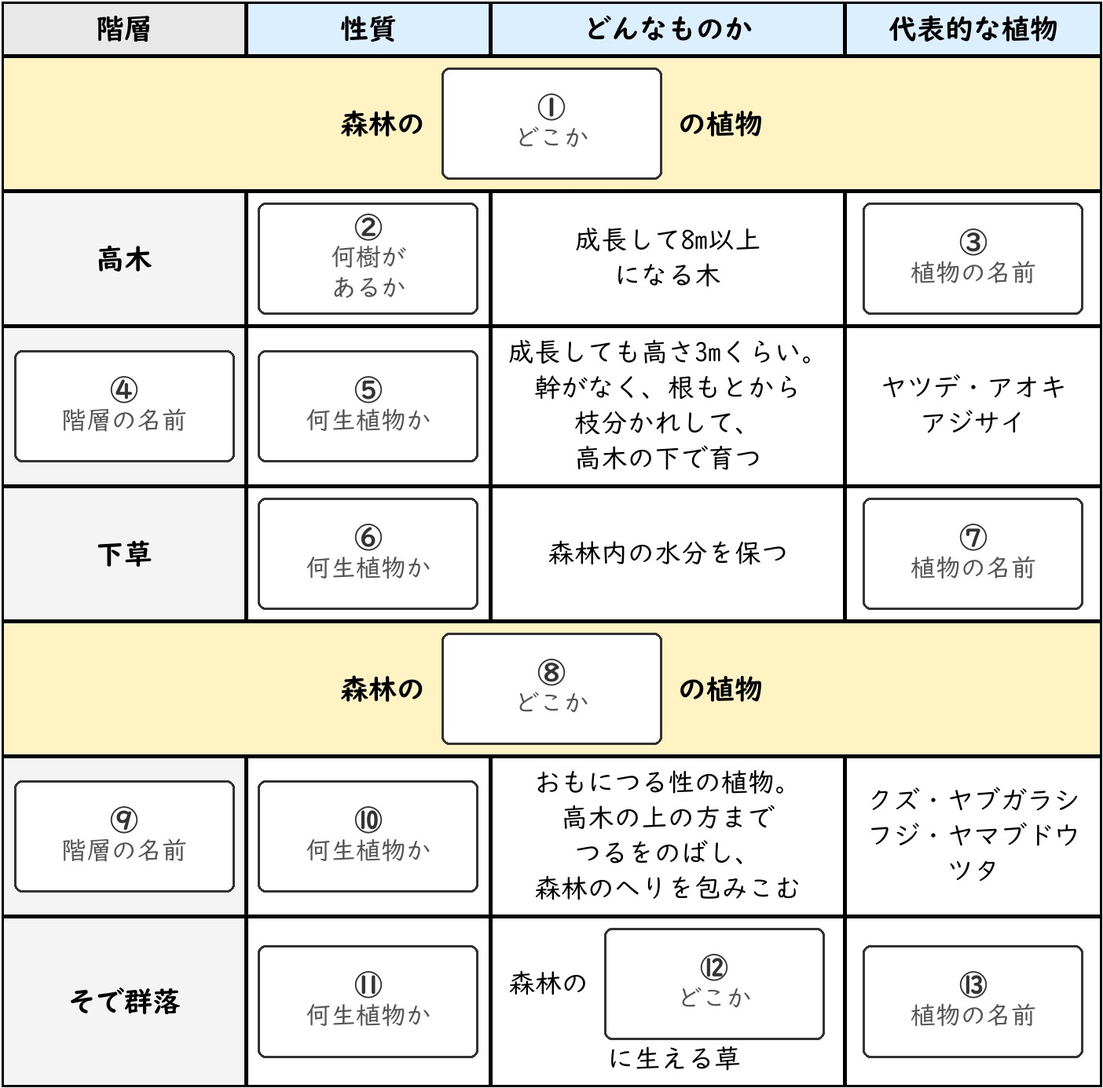
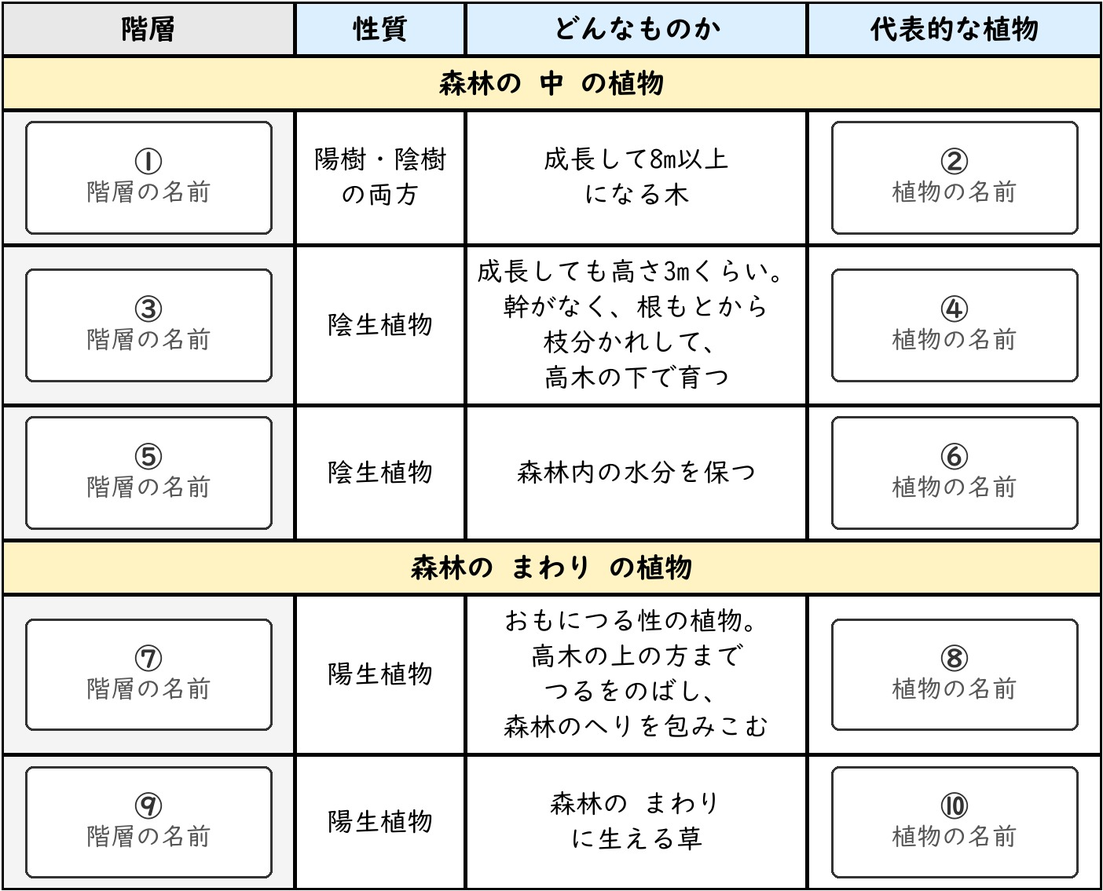
理科 第1回 森林の表をユーザーの形に（1603→1601）＋理科の表の赤丸 29問・88枠
依頼書 = 5年下\quiz_csv_理科\取り込み依頼_森林の表ユーザー形と赤丸_20260927.md
- 第1回_生物のつながり.json 4d7d140a（62問・calc 7 → memo 55）
- 検算: 1603 − 7 ＋ 5 ＝ 1601（実数 1601）。消えた r1m79・r1m80・r1m87〜r1m91／増えた r1m92〜r1m96。中身が変わった問 0。第1回いがいの変更 0。並び同じ
- r1_shinrin.jpg a750740d・実寸 1404x1135 → IMG_SIZES を直した
- TIMELINE_MARKS に 29問・88枠（理科_表の赤丸座標_1行1問_20260927.md）。指示薬5・中和2・水溶液11・消化6・森林5。
  どの問の画像もその表の画像（本番の実寸と座標の元の大きさが一致）。持ち主のいない枠 0
- verify_data 問題なし／smoke 22件問題0／390px で森林・水溶液・指示薬・消化の赤丸を目視

diff --git a/index.html b/index.html
@@ -2698,7 +2698,7 @@ function startConnectTimeout(side){
 // images/内の各画像の実サイズ。<img>にwidth/height属性を設定することで、
 // 読み込み前でも正しい縦横比の分だけ表示スペースを確保でき、
 // 画像読み込み完了時のレイアウトのガタつき（＝それに伴うタップのすれ違い）を防ぐ。
-const IMG_SIZES = {"img_01.jpg":[581,620],"img_02.jpg":[627,579],"img_03.jpg":[714,417],"img_04.jpg":[514,483],"img_05.jpg":[644,532],"img_06.jpg":[463,429],"img_07.jpg":[1156,446],"img_08.jpg":[573,586],"img_09.jpg":[506,198],"img_10.jpg":[497,146],"img_11.jpg":[503,499],"img_12.jpg":[518,578],"img_13.jpg":[746,621],"img_14.jpg":[713,567],"img_15.jpg":[658,628],"img_16.png":[642,589],"img_17.png":[535,597],"img_18.png":[510,295],"img_19.png":[1399,307],"img_20.png":[448,714],"img_21.png":[648,595],"img_22.png":[244,234],"img_23.jpg":[346,355],"img_24.jpg":[209,263],"img_25.jpg":[228,244],"kai1_01.jpg":[374,356],"kai1_02.jpg":[348,339],"kai1_03.jpg":[492,339],"kai1_04.jpg":[352,340],"kai1_05.jpg":[357,340],"kai1_06.jpg":[261,340],"kai1_07.jpg":[461,340],"kai1_08.jpg":[444,340],"kai1_09.jpg":[357,340],"kai1_10.jpg":[601,340],"kai1_11.jpg":[635,340],"kai1_12.jpg":[2019,1084],"kai1_13.jpg":[516,490],"kai1_14.jpg":[560,254],"kai1_15.jpg":[595,324],"kai1_17.jpg":[2028,783],"kai1_18.jpg":[2019,1084],"kai1_20.jpg":[2019,1084],"kai1_21.jpg":[2019,1084],"kai1_22.jpg":[595,569],"kai1_23.jpg":[595,569],"kai1_24.jpg":[2019,1084],"kai1_25.jpg":[595,569],"kai1_26.jpg":[595,569],"kai1_27.jpg":[700,508],"kai1_28.jpg":[951,720],"kai1_29.jpg":[2240,1180],"kai1_30.jpg":[1181,1244],"kai2_01.jpg":[697,350],"kai2_02.jpg":[769,524],"kai2_03.jpg":[529,297],"kai2_04.jpg":[529,313],"kai2_05.jpg":[1216,2126],"kai3_01.jpg":[530,460],"kai3_02.jpg":[680,460],"kai3_03.jpg":[700,460],"kai3_04.jpg":[675,330],"kai3_05.jpg":[2408,1775],"kai3_06.jpg":[1988,1222],"kai3_07.jpg":[1189,2001],"kai4_01.jpg":[1189,1839],"kai5_01.jpg":[1189,1027],"kai5_02.jpg":[743,534],"kaki_r1_01.jpg":[761,180],"kaki_r1_02.jpg":[761,206],"kaki_r1_03.jpg":[796,180],"kaki_r1_04.jpg":[761,179],"kaki_r1_05.jpg":[796,206],"kaki_r1_06.jpg":[830,214],"kaki_r1_07.jpg":[890,624],"kaki_r1_08.jpg":[430,380],"kaki_r1_map01.jpg":[1170,1210],"kaki_r1_map02.jpg":[1170,1210],"kaki_r1_map03.jpg":[1170,1210],"kaki_r1_map04.jpg":[1170,1210],"kaki_r1_map05.jpg":[1170,1210],"kaki_r1_map06.jpg":[1170,1210],"kaki_r1_map07.jpg":[1170,1210],"kaki_r1_map08.jpg":[1170,1210],"kaki_r1_map09.jpg":[1170,1210],"kaki_r1_map10.jpg":[1170,1210],"kaki_r1_map11.jpg":[1170,1210],"kaki_r1_map12.jpg":[1170,1210],"kaki_r1_map13.jpg":[1170,1210],"kaki_r1_map14.jpg":[1170,1210],"kaki_r1_map15.jpg":[1170,1210],"kaki_r2_graph01.jpg":[1215,1340],"kaki_r2_graph02.jpg":[1295,850],"kaki_r2_graph03.jpg":[1265,680],"kaki_r2_graph04.jpg":[1225,320],"kaki_r2_graph06.jpg":[1045,560],"kaki_r2_graph07.jpg":[700,870],"kaki_r2_map01.jpg":[1140,1090],"kaki_r2_map05.jpg":[1035,900],"kaki_r2_map07.jpg":[2315,1650],"kaki_r2_map08.jpg":[2315,1650],"kaki_r2_map09.jpg":[2315,1650],"kaki_r2_map10.jpg":[2315,1650],"kaki_r2_map11.jpg":[2315,1650],"kaki_r2_map12.jpg":[2315,1650],"kaki_r2_map13.jpg":[2315,1650],"kaki_r2_map14.jpg":[2315,1650],"kaki_r2_map15.jpg":[2315,1650],"kaki_r2_map16.jpg":[2315,1650],"kaki_r2_map17.jpg":[2315,1650],"kaki_r2_map18.jpg":[2315,1650],"kaki_r2_map19.jpg":[2315,1650],"kaki_r3_graph01.jpg":[1015,580],"kaki_r3_house01.jpg":[505,355],"kaki_r3_map01.jpg":[2415,3414],"kaki_r3_map02.jpg":[2415,3414],"kaki_r3_map03.jpg":[2415,3414],"kaki_r3_map04.jpg":[2415,3414],"kaki_r3_map05.jpg":[2415,3414],"kaki_r3_map06.jpg":[2415,3414],"kaki_r3_map07.jpg":[2415,3414],"kaki_r3_map08.jpg":[2415,3414],"kaki_r3_map09.jpg":[2415,3414],"kaki_r3_map10.jpg":[2415,3414],"kaki_r3_map11.jpg":[2415,3414],"kaki_r3_map12.jpg":[2415,3414],"kaki_r3_map13.jpg":[2415,3414],"kaki_r3_map14.jpg":[2415,3414],"kaki_r3_map15.jpg":[2415,3414],"kaki_r3_map16.jpg":[2415,3414],"kaki_r3_map17.jpg":[2415,3414],"kaki_r3_map18.jpg":[2415,3414],"kaki_r3_map19.jpg":[2415,3414],"kaki_r3_map20.jpg":[2415,3414],"kaki_r3_map21.jpg":[2415,3414],"kaki_r3_map22.jpg":[2415,3414],"kaki_r3_map23.jpg":[2415,3417],"kaki_r3_map24.jpg":[2415,3417],"kaki_r3_map25.jpg":[2415,3417],"kaki_r3_map26.jpg":[2415,3417],"kaki_r3_map27.jpg":[2415,3417],"kaki_r3_map28.jpg":[2415,3417],"kaki_r3_map29.jpg":[2415,3417],"kaki_r3_map30.jpg":[2415,3417],"kaki_r3_map31.jpg":[2415,3417],"kaki_r3_map32.jpg":[2415,3417],"kaki_r3_map33.jpg":[2415,3417],"kaki_r3_map34.jpg":[2415,3417],"kaki_r3_map35.jpg":[2415,3417],"kaki_r3_map36.jpg":[2415,3417],"kaki_r3_map37.jpg":[1265,910],"kaki_r3_shapes.jpg":[2315,480],"kaki_r4_graph01.jpg":[910,300],"kaki_r4_graph02.jpg":[760,200],"kaki_r4_map01.jpg":[1610,980],"kaki_r4_map02.jpg":[1610,1380],"kaki_r4_map03.jpg":[540,570],"kaki_r4_map04.jpg":[1480,1310],"kaki_r4_map05.jpg":[1480,1310],"kaki_r4_map06.jpg":[1480,1310],"kaki_r4_map07.jpg":[1480,1310],"kaki_r4_map08.jpg":[1480,1310],"kaki_r4_map09.jpg":[1480,1310],"kaki_r4_map10.jpg":[1480,1310],"kaki_r4_map11.jpg":[1480,1310],"kaki_r4_map12.jpg":[1480,1310],"kaki_r4_map13.jpg":[1480,1310],"kaki_r4_map14.jpg":[1480,1310],"kaki_r4_map15.jpg":[1480,1310],"kaki_r4_map16.jpg":[1480,1310],"kaki_r4_map17.jpg":[1480,1310],"kaki_r4_map18.jpg":[1480,1310],"kaki_r4_map19.jpg":[1480,1310],"kaki_r4_map20.jpg":[1480,1310],"kaki_r4_map21.jpg":[1480,1310],"kaki_r4_map22.jpg":[1480,1310],"kaki_r4_map23.jpg":[1480,1310],"kaki_r4_map24.jpg":[1480,1310],"kaki_r4_map25.jpg":[1630,1440],"kaki_r4_map26.jpg":[1630,1440],"kaki_r4_map27.jpg":[1630,1440],"kaki_r4_map28.jpg":[1630,1440],"kaki_r4_map29.jpg":[1630,1440],"kaki_r4_map30.jpg":[1630,1440],"kaki_r4_map31.jpg":[1630,1440],"kaki_r4_map32.jpg":[1630,1440],"kaki_r4_map33.jpg":[1630,1440],"kaki_r4_map34.jpg":[1630,1440],"kaki_r4_map35.jpg":[1630,1440],"kaki_r4_map36.jpg":[1630,1440],"kaki_r4_map37.jpg":[1630,1440],"kaki_r4_map38.jpg":[1630,1440],"kaki_r4_map39.jpg":[1630,1440],"kaki_r4_map40.jpg":[1630,1440],"kaki_r4_map41.jpg":[1630,1440],"kaki_r4_shapes01.jpg":[1470,520],"kaki_r4_shapes02.jpg":[1970,870],"kaki_r5_graph02.jpg":[610,665],"kaki_r5_graph05.jpg":[2105,343],"kaki_r5_map01.jpg":[1540,1550],"kaki_r5_map02.jpg":[1540,1550],"kaki_r5_map03.jpg":[1540,1550],"kaki_r5_map04.jpg":[1540,1550],"kaki_r5_map05.jpg":[1540,1550],"kaki_r5_map06.jpg":[1540,1550],"kaki_r5_map07.jpg":[1540,1550],"kaki_r5_map08.jpg":[1540,1550],"kaki_r5_map09.jpg":[1540,1550],"kaki_r5_map10.jpg":[1540,1550],"kaki_r5_map11.jpg":[1540,1550],"kaki_r5_map12.jpg":[1540,1550],"kaki_r5_map13.jpg":[1540,1550],"kaki_r5_map14.jpg":[1540,1550],"kaki_r5_map15.jpg":[1540,1550],"kaki_r5_map16.jpg":[1540,1550],"kaki_r5_map17.jpg":[1540,1550],"kaki_r5_map18.jpg":[1540,1550],"kaki_r5_map19.jpg":[1700,1740],"kaki_r5_map20.jpg":[1700,1740],"kaki_r5_map21.jpg":[1700,1740],"kaki_r5_map22.jpg":[1700,1740],"kaki_r5_map23.jpg":[1700,1740],"kaki_r5_map24.jpg":[1700,1740],"kaki_r5_map25.jpg":[1700,1740],"kaki_r5_map26.jpg":[1700,1740],"kaki_r5_map27.jpg":[1700,1740],"kaki_r5_map28.jpg":[1700,1740],"kaki_r5_map29.jpg":[1700,1740],"kaki_r5_map30.jpg":[1700,1740],"kaki_r5_map31.jpg":[1700,1740],"kaki_r5_map32.jpg":[540,600],"kaki_r5_shapes02.jpg":[800,635],"kaki_r5_shapes03.jpg":[460,480],"kaki_r5_table01.jpg":[1370,390],"kaki_r5_table02.jpg":[1170,580],"kaki_r6_graph01.jpg":[850,1005],"kaki_r6_map01.jpg":[1500,1320],"kaki_r6_map02.jpg":[1500,1320],"kaki_r6_map03.jpg":[1500,1320],"kaki_r6_map04.jpg":[1500,1320],"kaki_r6_map05.jpg":[1500,1320],"kaki_r6_map06.jpg":[1500,1320],"kaki_r6_map07.jpg":[1500,1320],"kaki_r6_map08.jpg":[1500,1320],"kaki_r6_map09.jpg":[1500,1320],"kaki_r6_map10.jpg":[1500,1320],"kaki_r6_map11.jpg":[1500,1320],"kaki_r6_map12.jpg":[1500,1320],"kaki_r6_map13.jpg":[1500,1320],"kaki_r6_map14.jpg":[1500,1320],"kaki_r6_map15.jpg":[1500,1320],"kaki_r6_map16.jpg":[1500,1320],"kaki_r6_map17.jpg":[1500,1320],"kaki_r6_map18.jpg":[1500,1320],"kaki_r6_map19.jpg":[1500,1320],"kaki_r6_map20.jpg":[1500,1320],"kaki_r6_map21.jpg":[1500,1320],"kaki_r6_map22.jpg":[1500,1320],"kaki_r6_map23.jpg":[1500,1320],"kaki_r6_map24.jpg":[1500,1320],"kaki_r6_map25.jpg":[1500,1320],"kaki_r6_map26.jpg":[1500,1320],"kaki_r6_map27.jpg":[1500,1320],"kaki_r6_map28.jpg":[1420,1480],"kaki_r6_map29.jpg":[1420,1480],"kaki_r6_map30.jpg":[1420,1480],"kaki_r6_map31.jpg":[1420,1480],"kaki_r6_map32.jpg":[1420,1480],"kaki_r6_map33.jpg":[1420,1480],"kaki_r6_map34.jpg":[1420,1480],"kaki_r6_map35.jpg":[1420,1480],"kaki_r6_map36.jpg":[1420,1480],"kaki_r6_map37.jpg":[1420,1480],"kaki_r6_map38.jpg":[1420,1480],"kaki_r6_map39.jpg":[1420,1480],"kaki_r6_map40.jpg":[1420,1480],"kaki_r6_map41.jpg":[1420,1480],"kaki_r6_map42.jpg":[1420,1480],"kaki_r6_map43.jpg":[1420,1480],"kaki_r6_map44.jpg":[1420,1480],"kaki_r6_map45.jpg":[1420,1480],"kaki_r6_map46.jpg":[1420,1480],"kaki_r6_map47.jpg":[1420,1480],"kaki_r6_map48.jpg":[750,845],"kaki_r6_map49.jpg":[600,700],"kaki_r6_table01.jpg":[2010,445],"kaki_r7_graph02.jpg":[720,340],"kaki_r7_map01.jpg":[1840,1620],"kaki_r7_map02.jpg":[1840,1620],"kaki_r7_map03.jpg":[1840,1620],"kaki_r7_map04.jpg":[1840,1620],"kaki_r7_map05.jpg":[1840,1620],"kaki_r7_map06.jpg":[1840,1620],"kaki_r7_map07.jpg":[1840,1620],"kaki_r7_map08.jpg":[1840,1620],"kaki_r7_map09.jpg":[1840,1620],"kaki_r7_map10.jpg":[1840,1620],"kaki_r7_map11.jpg":[1840,1620],"kaki_r7_map12.jpg":[1840,1620],"kaki_r7_map13.jpg":[1840,1620],"kaki_r7_map14.jpg":[1840,1620],"kaki_r7_map15.jpg":[1840,1620],"kaki_r7_map16.jpg":[1840,1620],"kaki_r7_map17.jpg":[1840,1620],"kaki_r7_map18.jpg":[1500,1620],"kaki_r7_map19.jpg":[1500,1620],"kaki_r7_map20.jpg":[1500,1620],"kaki_r7_map21.jpg":[1500,1620],"kaki_r7_map22.jpg":[1500,1620],"kaki_r7_map23.jpg":[1500,1620],"kaki_r7_map24.jpg":[1500,1620],"kaki_r7_map25.jpg":[1500,1620],"kaki_r7_map26.jpg":[1500,1620],"kaki_r7_map27.jpg":[1500,1620],"kaki_r7_map28.jpg":[1500,1620],"kaki_r7_map29.jpg":[1500,1620],"kaki_r7_map30.jpg":[1500,1620],"kaki_r7_map31.jpg":[1500,1620],"kaki_r7_map32.jpg":[1500,1620],"kaki_r7_map33.jpg":[1500,1620],"kaki_r7_map34.jpg":[1500,1620],"kaki_r7_map35.jpg":[1500,1620],"kaki_r7_map36.jpg":[680,550],"kaki_r7_table01.jpg":[1100,420],"kaki_r7_table02.jpg":[1730,890],"kaki_r8_map01.jpg":[1220,1720],"kaki_r8_map02.jpg":[1220,1720],"kaki_r8_map03.jpg":[1220,1720],"kaki_r8_map04.jpg":[1220,1720],"kaki_r8_map05.jpg":[1220,1720],"kaki_r8_map06.jpg":[1220,1720],"kaki_r8_map07.jpg":[1220,1720],"kaki_r8_map08.jpg":[1220,1720],"kaki_r8_map09.jpg":[1220,1720],"kaki_r8_map10.jpg":[1220,1720],"kaki_r8_map11.jpg":[1220,1720],"kaki_r8_map12.jpg":[1220,1720],"kaki_r8_map13.jpg":[1220,1720],"kaki_r8_map14.jpg":[1220,1720],"kaki_r8_map15.jpg":[1220,1720],"kaki_r8_map16.jpg":[1220,1720],"kaki_r8_map17.jpg":[1220,1720],"kaki_r8_map18.jpg":[1220,1720],"kaki_r8_map19.jpg":[1220,1720],"kaki_r8_map20.jpg":[1220,1720],"kaki_r8_map21.jpg":[1220,1720],"kaki_r8_map22.jpg":[1220,1720],"kaki_r8_map23.jpg":[1220,1720],"kaki_r8_map24.jpg":[1220,1720],"kaki_r8_map25.jpg":[1220,1720],"kaki_r8_map26.jpg":[1220,1720],"kaki_r8_map27.jpg":[1220,1720],"kaki_r8_map28.jpg":[1220,1720],"kaki_r8_map29.jpg":[1220,1720],"kaki_r8_map30.jpg":[1220,1720],"kaki_r8_map31.jpg":[1220,1720],"kaki_r8_map32.jpg":[1220,1720],"kaki_r8_map33.jpg":[1220,1720],"kaki_r8_map34.jpg":[1220,1720],"kaki_r8_map35.jpg":[1870,1560],"kaki_r8_map36.jpg":[1870,1560],"kaki_r8_map37.jpg":[1870,1560],"kaki_r8_map38.jpg":[1870,1560],"kaki_r8_map39.jpg":[1870,1560],"kaki_r8_map40.jpg":[1870,1560],"kaki_r8_map41.jpg":[1870,1560],"kaki_r8_map42.jpg":[1870,1560],"kaki_r8_map43.jpg":[1870,1560],"kaki_r8_map44.jpg":[1870,1560],"kaki_r8_map45.jpg":[1870,1560],"kaki_r8_map46.jpg":[1870,1560],"kaki_r8_map47.jpg":[1870,1560],"kaki_r8_map48.jpg":[1870,1560],"kaki_r8_map49.jpg":[1870,1560],"kaki_r8_map50.jpg":[1870,1560],"kaki_r8_map51.jpg":[1870,1560],"kaki_r8_map52.jpg":[1870,1560],"kaki_r8_map53.jpg":[1870,1560],"kaki_r8_map54.jpg":[1870,1560],"kaki_r8_map55.jpg":[1870,1560],"kaki_r8_map56.jpg":[1870,1560],"kaki_r8_map57.jpg":[1870,1560],"kaki_r8_map58.jpg":[640,630],"r1_01.jpg":[2188,900],"r1_02.jpg":[1130,1070],"r1_03.jpg":[1660,400],"r1_04.jpg":[476,377],"r1_05.jpg":[1299,625],"r1_06.jpg":[950,360],"r1_shinrin.jpg":[1404,1386],"r2_01.jpg":[1400,673],"r2_02.jpg":[1400,365],"r2_03.jpg":[1400,346],"r2_04.jpg":[1400,997],"r2_05.jpg":[1400,692],"r2_06.jpg":[1392,600],"r2_07.jpg":[1392,623],"r2_08.jpg":[1392,701],"r2_09.jpg":[1419,823],"r2_10.jpg":[1419,823],"r2_11.jpg":[1419,823],"r2_12.jpg":[1419,956],"r2_13.jpg":[1419,956],"r2_14.jpg":[1419,956],"r2_15.jpg":[1400,946],"r2_16.jpg":[1400,946],"r2_17.jpg":[1400,946],"r2_18.jpg":[1400,883],"r2_19.jpg":[1400,883],"r2_20.jpg":[1427,1895],"r2_21.jpg":[1427,1895],"r2_22.jpg":[1427,1895],"r2_23.jpg":[1427,1895],"r2_24.jpg":[1427,1895],"r2_25.jpg":[1427,1895],"r2_26.jpg":[1410,1983],"r2_27.jpg":[1410,1983],"r2_28.jpg":[1410,1983],"r2_29.jpg":[1410,1983],"r2_30.jpg":[1419,946],"r2_31.jpg":[1419,946],"r2_32.jpg":[1419,946],"r2_33.jpg":[1419,946],"r2_34.jpg":[1419,538],"r2_35.jpg":[1419,538],"r2_36.jpg":[1419,538],"r2_37.jpg":[1419,538],"r2_38.jpg":[1419,546],"r2_39.jpg":[1401,913],"r2_40.jpg":[1401,1937],"r3_chuuwa.jpg":[1404,556],"r3_seishitsu.jpg":[1404,1708],"r3_shijiyaku.jpg":[1404,790],"r3_yomi21.jpg":[645,466],"r3_yomi24.jpg":[1404,382],"r3_yomi25.jpg":[1170,1095],"r3_yomi27.jpg":[1404,310],"r3_yomi36.jpg":[780,600],"r4_01.jpg":[880,1168],"r4_02.jpg":[1175,434],"r4_03.jpg":[759,1084],"r4_04.jpg":[1404,2632]};
+const IMG_SIZES = {"img_01.jpg":[581,620],"img_02.jpg":[627,579],"img_03.jpg":[714,417],"img_04.jpg":[514,483],"img_05.jpg":[644,532],"img_06.jpg":[463,429],"img_07.jpg":[1156,446],"img_08.jpg":[573,586],"img_09.jpg":[506,198],"img_10.jpg":[497,146],"img_11.jpg":[503,499],"img_12.jpg":[518,578],"img_13.jpg":[746,621],"img_14.jpg":[713,567],"img_15.jpg":[658,628],"img_16.png":[642,589],"img_17.png":[535,597],"img_18.png":[510,295],"img_19.png":[1399,307],"img_20.png":[448,714],"img_21.png":[648,595],"img_22.png":[244,234],"img_23.jpg":[346,355],"img_24.jpg":[209,263],"img_25.jpg":[228,244],"kai1_01.jpg":[374,356],"kai1_02.jpg":[348,339],"kai1_03.jpg":[492,339],"kai1_04.jpg":[352,340],"kai1_05.jpg":[357,340],"kai1_06.jpg":[261,340],"kai1_07.jpg":[461,340],"kai1_08.jpg":[444,340],"kai1_09.jpg":[357,340],"kai1_10.jpg":[601,340],"kai1_11.jpg":[635,340],"kai1_12.jpg":[2019,1084],"kai1_13.jpg":[516,490],"kai1_14.jpg":[560,254],"kai1_15.jpg":[595,324],"kai1_17.jpg":[2028,783],"kai1_18.jpg":[2019,1084],"kai1_20.jpg":[2019,1084],"kai1_21.jpg":[2019,1084],"kai1_22.jpg":[595,569],"kai1_23.jpg":[595,569],"kai1_24.jpg":[2019,1084],"kai1_25.jpg":[595,569],"kai1_26.jpg":[595,569],"kai1_27.jpg":[700,508],"kai1_28.jpg":[951,720],"kai1_29.jpg":[2240,1180],"kai1_30.jpg":[1181,1244],"kai2_01.jpg":[697,350],"kai2_02.jpg":[769,524],"kai2_03.jpg":[529,297],"kai2_04.jpg":[529,313],"kai2_05.jpg":[1216,2126],"kai3_01.jpg":[530,460],"kai3_02.jpg":[680,460],"kai3_03.jpg":[700,460],"kai3_04.jpg":[675,330],"kai3_05.jpg":[2408,1775],"kai3_06.jpg":[1988,1222],"kai3_07.jpg":[1189,2001],"kai4_01.jpg":[1189,1839],"kai5_01.jpg":[1189,1027],"kai5_02.jpg":[743,534],"kaki_r1_01.jpg":[761,180],"kaki_r1_02.jpg":[761,206],"kaki_r1_03.jpg":[796,180],"kaki_r1_04.jpg":[761,179],"kaki_r1_05.jpg":[796,206],"kaki_r1_06.jpg":[830,214],"kaki_r1_07.jpg":[890,624],"kaki_r1_08.jpg":[430,380],"kaki_r1_map01.jpg":[1170,1210],"kaki_r1_map02.jpg":[1170,1210],"kaki_r1_map03.jpg":[1170,1210],"kaki_r1_map04.jpg":[1170,1210],"kaki_r1_map05.jpg":[1170,1210],"kaki_r1_map06.jpg":[1170,1210],"kaki_r1_map07.jpg":[1170,1210],"kaki_r1_map08.jpg":[1170,1210],"kaki_r1_map09.jpg":[1170,1210],"kaki_r1_map10.jpg":[1170,1210],"kaki_r1_map11.jpg":[1170,1210],"kaki_r1_map12.jpg":[1170,1210],"kaki_r1_map13.jpg":[1170,1210],"kaki_r1_map14.jpg":[1170,1210],"kaki_r1_map15.jpg":[1170,1210],"kaki_r2_graph01.jpg":[1215,1340],"kaki_r2_graph02.jpg":[1295,850],"kaki_r2_graph03.jpg":[1265,680],"kaki_r2_graph04.jpg":[1225,320],"kaki_r2_graph06.jpg":[1045,560],"kaki_r2_graph07.jpg":[700,870],"kaki_r2_map01.jpg":[1140,1090],"kaki_r2_map05.jpg":[1035,900],"kaki_r2_map07.jpg":[2315,1650],"kaki_r2_map08.jpg":[2315,1650],"kaki_r2_map09.jpg":[2315,1650],"kaki_r2_map10.jpg":[2315,1650],"kaki_r2_map11.jpg":[2315,1650],"kaki_r2_map12.jpg":[2315,1650],"kaki_r2_map13.jpg":[2315,1650],"kaki_r2_map14.jpg":[2315,1650],"kaki_r2_map15.jpg":[2315,1650],"kaki_r2_map16.jpg":[2315,1650],"kaki_r2_map17.jpg":[2315,1650],"kaki_r2_map18.jpg":[2315,1650],"kaki_r2_map19.jpg":[2315,1650],"kaki_r3_graph01.jpg":[1015,580],"kaki_r3_house01.jpg":[505,355],"kaki_r3_map01.jpg":[2415,3414],"kaki_r3_map02.jpg":[2415,3414],"kaki_r3_map03.jpg":[2415,3414],"kaki_r3_map04.jpg":[2415,3414],"kaki_r3_map05.jpg":[2415,3414],"kaki_r3_map06.jpg":[2415,3414],"kaki_r3_map07.jpg":[2415,3414],"kaki_r3_map08.jpg":[2415,3414],"kaki_r3_map09.jpg":[2415,3414],"kaki_r3_map10.jpg":[2415,3414],"kaki_r3_map11.jpg":[2415,3414],"kaki_r3_map12.jpg":[2415,3414],"kaki_r3_map13.jpg":[2415,3414],"kaki_r3_map14.jpg":[2415,3414],"kaki_r3_map15.jpg":[2415,3414],"kaki_r3_map16.jpg":[2415,3414],"kaki_r3_map17.jpg":[2415,3414],"kaki_r3_map18.jpg":[2415,3414],"kaki_r3_map19.jpg":[2415,3414],"kaki_r3_map20.jpg":[2415,3414],"kaki_r3_map21.jpg":[2415,3414],"kaki_r3_map22.jpg":[2415,3414],"kaki_r3_map23.jpg":[2415,3417],"kaki_r3_map24.jpg":[2415,3417],"kaki_r3_map25.jpg":[2415,3417],"kaki_r3_map26.jpg":[2415,3417],"kaki_r3_map27.jpg":[2415,3417],"kaki_r3_map28.jpg":[2415,3417],"kaki_r3_map29.jpg":[2415,3417],"kaki_r3_map30.jpg":[2415,3417],"kaki_r3_map31.jpg":[2415,3417],"kaki_r3_map32.jpg":[2415,3417],"kaki_r3_map33.jpg":[2415,3417],"kaki_r3_map34.jpg":[2415,3417],"kaki_r3_map35.jpg":[2415,3417],"kaki_r3_map36.jpg":[2415,3417],"kaki_r3_map37.jpg":[1265,910],"kaki_r3_shapes.jpg":[2315,480],"kaki_r4_graph01.jpg":[910,300],"kaki_r4_graph02.jpg":[760,200],"kaki_r4_map01.jpg":[1610,980],"kaki_r4_map02.jpg":[1610,1380],"kaki_r4_map03.jpg":[540,570],"kaki_r4_map04.jpg":[1480,1310],"kaki_r4_map05.jpg":[1480,1310],"kaki_r4_map06.jpg":[1480,1310],"kaki_r4_map07.jpg":[1480,1310],"kaki_r4_map08.jpg":[1480,1310],"kaki_r4_map09.jpg":[1480,1310],"kaki_r4_map10.jpg":[1480,1310],"kaki_r4_map11.jpg":[1480,1310],"kaki_r4_map12.jpg":[1480,1310],"kaki_r4_map13.jpg":[1480,1310],"kaki_r4_map14.jpg":[1480,1310],"kaki_r4_map15.jpg":[1480,1310],"kaki_r4_map16.jpg":[1480,1310],"kaki_r4_map17.jpg":[1480,1310],"kaki_r4_map18.jpg":[1480,1310],"kaki_r4_map19.jpg":[1480,1310],"kaki_r4_map20.jpg":[1480,1310],"kaki_r4_map21.jpg":[1480,1310],"kaki_r4_map22.jpg":[1480,1310],"kaki_r4_map23.jpg":[1480,1310],"kaki_r4_map24.jpg":[1480,1310],"kaki_r4_map25.jpg":[1630,1440],"kaki_r4_map26.jpg":[1630,1440],"kaki_r4_map27.jpg":[1630,1440],"kaki_r4_map28.jpg":[1630,1440],"kaki_r4_map29.jpg":[1630,1440],"kaki_r4_map30.jpg":[1630,1440],"kaki_r4_map31.jpg":[1630,1440],"kaki_r4_map32.jpg":[1630,1440],"kaki_r4_map33.jpg":[1630,1440],"kaki_r4_map34.jpg":[1630,1440],"kaki_r4_map35.jpg":[1630,1440],"kaki_r4_map36.jpg":[1630,1440],"kaki_r4_map37.jpg":[1630,1440],"kaki_r4_map38.jpg":[1630,1440],"kaki_r4_map39.jpg":[1630,1440],"kaki_r4_map40.jpg":[1630,1440],"kaki_r4_map41.jpg":[1630,1440],"kaki_r4_shapes01.jpg":[1470,520],"kaki_r4_shapes02.jpg":[1970,870],"kaki_r5_graph02.jpg":[610,665],"kaki_r5_graph05.jpg":[2105,343],"kaki_r5_map01.jpg":[1540,1550],"kaki_r5_map02.jpg":[1540,1550],"kaki_r5_map03.jpg":[1540,1550],"kaki_r5_map04.jpg":[1540,1550],"kaki_r5_map05.jpg":[1540,1550],"kaki_r5_map06.jpg":[1540,1550],"kaki_r5_map07.jpg":[1540,1550],"kaki_r5_map08.jpg":[1540,1550],"kaki_r5_map09.jpg":[1540,1550],"kaki_r5_map10.jpg":[1540,1550],"kaki_r5_map11.jpg":[1540,1550],"kaki_r5_map12.jpg":[1540,1550],"kaki_r5_map13.jpg":[1540,1550],"kaki_r5_map14.jpg":[1540,1550],"kaki_r5_map15.jpg":[1540,1550],"kaki_r5_map16.jpg":[1540,1550],"kaki_r5_map17.jpg":[1540,1550],"kaki_r5_map18.jpg":[1540,1550],"kaki_r5_map19.jpg":[1700,1740],"kaki_r5_map20.jpg":[1700,1740],"kaki_r5_map21.jpg":[1700,1740],"kaki_r5_map22.jpg":[1700,1740],"kaki_r5_map23.jpg":[1700,1740],"kaki_r5_map24.jpg":[1700,1740],"kaki_r5_map25.jpg":[1700,1740],"kaki_r5_map26.jpg":[1700,1740],"kaki_r5_map27.jpg":[1700,1740],"kaki_r5_map28.jpg":[1700,1740],"kaki_r5_map29.jpg":[1700,1740],"kaki_r5_map30.jpg":[1700,1740],"kaki_r5_map31.jpg":[1700,1740],"kaki_r5_map32.jpg":[540,600],"kaki_r5_shapes02.jpg":[800,635],"kaki_r5_shapes03.jpg":[460,480],"kaki_r5_table01.jpg":[1370,390],"kaki_r5_table02.jpg":[1170,580],"kaki_r6_graph01.jpg":[850,1005],"kaki_r6_map01.jpg":[1500,1320],"kaki_r6_map02.jpg":[1500,1320],"kaki_r6_map03.jpg":[1500,1320],"kaki_r6_map04.jpg":[1500,1320],"kaki_r6_map05.jpg":[1500,1320],"kaki_r6_map06.jpg":[1500,1320],"kaki_r6_map07.jpg":[1500,1320],"kaki_r6_map08.jpg":[1500,1320],"kaki_r6_map09.jpg":[1500,1320],"kaki_r6_map10.jpg":[1500,1320],"kaki_r6_map11.jpg":[1500,1320],"kaki_r6_map12.jpg":[1500,1320],"kaki_r6_map13.jpg":[1500,1320],"kaki_r6_map14.jpg":[1500,1320],"kaki_r6_map15.jpg":[1500,1320],"kaki_r6_map16.jpg":[1500,1320],"kaki_r6_map17.jpg":[1500,1320],"kaki_r6_map18.jpg":[1500,1320],"kaki_r6_map19.jpg":[1500,1320],"kaki_r6_map20.jpg":[1500,1320],"kaki_r6_map21.jpg":[1500,1320],"kaki_r6_map22.jpg":[1500,1320],"kaki_r6_map23.jpg":[1500,1320],"kaki_r6_map24.jpg":[1500,1320],"kaki_r6_map25.jpg":[1500,1320],"kaki_r6_map26.jpg":[1500,1320],"kaki_r6_map27.jpg":[1500,1320],"kaki_r6_map28.jpg":[1420,1480],"kaki_r6_map29.jpg":[1420,1480],"kaki_r6_map30.jpg":[1420,1480],"kaki_r6_map31.jpg":[1420,1480],"kaki_r6_map32.jpg":[1420,1480],"kaki_r6_map33.jpg":[1420,1480],"kaki_r6_map34.jpg":[1420,1480],"kaki_r6_map35.jpg":[1420,1480],"kaki_r6_map36.jpg":[1420,1480],"kaki_r6_map37.jpg":[1420,1480],"kaki_r6_map38.jpg":[1420,1480],"kaki_r6_map39.jpg":[1420,1480],"kaki_r6_map40.jpg":[1420,1480],"kaki_r6_map41.jpg":[1420,1480],"kaki_r6_map42.jpg":[1420,1480],"kaki_r6_map43.jpg":[1420,1480],"kaki_r6_map44.jpg":[1420,1480],"kaki_r6_map45.jpg":[1420,1480],"kaki_r6_map46.jpg":[1420,1480],"kaki_r6_map47.jpg":[1420,1480],"kaki_r6_map48.jpg":[750,845],"kaki_r6_map49.jpg":[600,700],"kaki_r6_table01.jpg":[2010,445],"kaki_r7_graph02.jpg":[720,340],"kaki_r7_map01.jpg":[1840,1620],"kaki_r7_map02.jpg":[1840,1620],"kaki_r7_map03.jpg":[1840,1620],"kaki_r7_map04.jpg":[1840,1620],"kaki_r7_map05.jpg":[1840,1620],"kaki_r7_map06.jpg":[1840,1620],"kaki_r7_map07.jpg":[1840,1620],"kaki_r7_map08.jpg":[1840,1620],"kaki_r7_map09.jpg":[1840,1620],"kaki_r7_map10.jpg":[1840,1620],"kaki_r7_map11.jpg":[1840,1620],"kaki_r7_map12.jpg":[1840,1620],"kaki_r7_map13.jpg":[1840,1620],"kaki_r7_map14.jpg":[1840,1620],"kaki_r7_map15.jpg":[1840,1620],"kaki_r7_map16.jpg":[1840,1620],"kaki_r7_map17.jpg":[1840,1620],"kaki_r7_map18.jpg":[1500,1620],"kaki_r7_map19.jpg":[1500,1620],"kaki_r7_map20.jpg":[1500,1620],"kaki_r7_map21.jpg":[1500,1620],"kaki_r7_map22.jpg":[1500,1620],"kaki_r7_map23.jpg":[1500,1620],"kaki_r7_map24.jpg":[1500,1620],"kaki_r7_map25.jpg":[1500,1620],"kaki_r7_map26.jpg":[1500,1620],"kaki_r7_map27.jpg":[1500,1620],"kaki_r7_map28.jpg":[1500,1620],"kaki_r7_map29.jpg":[1500,1620],"kaki_r7_map30.jpg":[1500,1620],"kaki_r7_map31.jpg":[1500,1620],"kaki_r7_map32.jpg":[1500,1620],"kaki_r7_map33.jpg":[1500,1620],"kaki_r7_map34.jpg":[1500,1620],"kaki_r7_map35.jpg":[1500,1620],"kaki_r7_map36.jpg":[680,550],"kaki_r7_table01.jpg":[1100,420],"kaki_r7_table02.jpg":[1730,890],"kaki_r8_map01.jpg":[1220,1720],"kaki_r8_map02.jpg":[1220,1720],"kaki_r8_map03.jpg":[1220,1720],"kaki_r8_map04.jpg":[1220,1720],"kaki_r8_map05.jpg":[1220,1720],"kaki_r8_map06.jpg":[1220,1720],"kaki_r8_map07.jpg":[1220,1720],"kaki_r8_map08.jpg":[1220,1720],"kaki_r8_map09.jpg":[1220,1720],"kaki_r8_map10.jpg":[1220,1720],"kaki_r8_map11.jpg":[1220,1720],"kaki_r8_map12.jpg":[1220,1720],"kaki_r8_map13.jpg":[1220,1720],"kaki_r8_map14.jpg":[1220,1720],"kaki_r8_map15.jpg":[1220,1720],"kaki_r8_map16.jpg":[1220,1720],"kaki_r8_map17.jpg":[1220,1720],"kaki_r8_map18.jpg":[1220,1720],"kaki_r8_map19.jpg":[1220,1720],"kaki_r8_map20.jpg":[1220,1720],"kaki_r8_map21.jpg":[1220,1720],"kaki_r8_map22.jpg":[1220,1720],"kaki_r8_map23.jpg":[1220,1720],"kaki_r8_map24.jpg":[1220,1720],"kaki_r8_map25.jpg":[1220,1720],"kaki_r8_map26.jpg":[1220,1720],"kaki_r8_map27.jpg":[1220,1720],"kaki_r8_map28.jpg":[1220,1720],"kaki_r8_map29.jpg":[1220,1720],"kaki_r8_map30.jpg":[1220,1720],"kaki_r8_map31.jpg":[1220,1720],"kaki_r8_map32.jpg":[1220,1720],"kaki_r8_map33.jpg":[1220,1720],"kaki_r8_map34.jpg":[1220,1720],"kaki_r8_map35.jpg":[1870,1560],"kaki_r8_map36.jpg":[1870,1560],"kaki_r8_map37.jpg":[1870,1560],"kaki_r8_map38.jpg":[1870,1560],"kaki_r8_map39.jpg":[1870,1560],"kaki_r8_map40.jpg":[1870,1560],"kaki_r8_map41.jpg":[1870,1560],"kaki_r8_map42.jpg":[1870,1560],"kaki_r8_map43.jpg":[1870,1560],"kaki_r8_map44.jpg":[1870,1560],"kaki_r8_map45.jpg":[1870,1560],"kaki_r8_map46.jpg":[1870,1560],"kaki_r8_map47.jpg":[1870,1560],"kaki_r8_map48.jpg":[1870,1560],"kaki_r8_map49.jpg":[1870,1560],"kaki_r8_map50.jpg":[1870,1560],"kaki_r8_map51.jpg":[1870,1560],"kaki_r8_map52.jpg":[1870,1560],"kaki_r8_map53.jpg":[1870,1560],"kaki_r8_map54.jpg":[1870,1560],"kaki_r8_map55.jpg":[1870,1560],"kaki_r8_map56.jpg":[1870,1560],"kaki_r8_map57.jpg":[1870,1560],"kaki_r8_map58.jpg":[640,630],"r1_01.jpg":[2188,900],"r1_02.jpg":[1130,1070],"r1_03.jpg":[1660,400],"r1_04.jpg":[476,377],"r1_05.jpg":[1299,625],"r1_06.jpg":[950,360],"r1_shinrin.jpg":[1404,1135],"r2_01.jpg":[1400,673],"r2_02.jpg":[1400,365],"r2_03.jpg":[1400,346],"r2_04.jpg":[1400,997],"r2_05.jpg":[1400,692],"r2_06.jpg":[1392,600],"r2_07.jpg":[1392,623],"r2_08.jpg":[1392,701],"r2_09.jpg":[1419,823],"r2_10.jpg":[1419,823],"r2_11.jpg":[1419,823],"r2_12.jpg":[1419,956],"r2_13.jpg":[1419,956],"r2_14.jpg":[1419,956],"r2_15.jpg":[1400,946],"r2_16.jpg":[1400,946],"r2_17.jpg":[1400,946],"r2_18.jpg":[1400,883],"r2_19.jpg":[1400,883],"r2_20.jpg":[1427,1895],"r2_21.jpg":[1427,1895],"r2_22.jpg":[1427,1895],"r2_23.jpg":[1427,1895],"r2_24.jpg":[1427,1895],"r2_25.jpg":[1427,1895],"r2_26.jpg":[1410,1983],"r2_27.jpg":[1410,1983],"r2_28.jpg":[1410,1983],"r2_29.jpg":[1410,1983],"r2_30.jpg":[1419,946],"r2_31.jpg":[1419,946],"r2_32.jpg":[1419,946],"r2_33.jpg":[1419,946],"r2_34.jpg":[1419,538],"r2_35.jpg":[1419,538],"r2_36.jpg":[1419,538],"r2_37.jpg":[1419,538],"r2_38.jpg":[1419,546],"r2_39.jpg":[1401,913],"r2_40.jpg":[1401,1937],"r3_chuuwa.jpg":[1404,556],"r3_seishitsu.jpg":[1404,1708],"r3_shijiyaku.jpg":[1404,790],"r3_yomi21.jpg":[645,466],"r3_yomi24.jpg":[1404,382],"r3_yomi25.jpg":[1170,1095],"r3_yomi27.jpg":[1404,310],"r3_yomi36.jpg":[780,600],"r4_01.jpg":[880,1168],"r4_02.jpg":[1175,434],"r4_03.jpg":[759,1084],"r4_04.jpg":[1404,2632]};
 
 // 画像を差し替える際、幅・高さの属性も一緒に設定する（IMG_SIZESに無い画像はそのまま）
 // ---- 年表の空らんを赤丸で示す位置（画像の幅・高さに対する割合）----
@@ -2780,7 +2780,39 @@ const TIMELINE_MARKS = {
   "g5r31": [[0.28511, 0.09445, 0.0614, 0.03311], [0.69975, 0.13242, 0.06224, 0.03311]],
   "g5r32": [[0.70059, 0.58423, 0.06224, 0.03408]],
   "g5r33": [[0.70059, 0.75852, 0.06224, 0.03311], [0.70059, 0.79942, 0.06224, 0.03311]],
-  "g5r7": [[0.59798, 0.90263, 0.0614, 0.03408]]
+  "g5r7": [[0.59798, 0.90263, 0.0614, 0.03408]],
+  // ---- 理科の表（2026-09-27 夜・理科作成担当 `理科_表の赤丸座標_1行1問_20260927.md`）29問・88枠 ----
+  //   座標は画像を作ったスクリプトの数字（目で測っていない）。★画像と組: r3_shijiyaku 1404x790／r3_chuuwa 1404x556／
+  //   r3_seishitsu 1404x1708／r4_04 1404x2632／r1_shinrin 1404x1135（a750740d）。★画像を作り直したらこの座標は無効
+  "r3m172": [[0.33725, 0.13924, 0.18519, 0.09114], [0.55164, 0.13924, 0.18519, 0.09114], [0.78241, 0.13924, 0.18519, 0.09114]],
+  "r3m173": [[0.33725, 0.30633, 0.18519, 0.09114], [0.55164, 0.30633, 0.18519, 0.09114], [0.78241, 0.30633, 0.18519, 0.09114]],
+  "r3m174": [[0.33725, 0.44937, 0.18519, 0.09114], [0.55164, 0.44937, 0.18519, 0.09114], [0.78241, 0.44937, 0.18519, 0.09114]],
+  "r3m175": [[0.33725, 0.59241, 0.18519, 0.09114], [0.55164, 0.59241, 0.18519, 0.09114], [0.78241, 0.59241, 0.18519, 0.09114]],
+  "r3m176": [[0.33725, 0.73544, 0.18519, 0.09114], [0.33725, 0.89241, 0.18519, 0.09114], [0.55164, 0.81392, 0.18519, 0.09114], [0.76816, 0.76962, 0.18519, 0.09114], [0.78241, 0.85823, 0.18519, 0.09114]],
+  "r3m177": [[0.27778, 0.26799, 0.19373, 0.33453], [0.75962, 0.26799, 0.19373, 0.33453]],
+  "r3m178": [[0.27778, 0.64209, 0.19373, 0.33453], [0.50427, 0.64209, 0.19373, 0.33453], [0.75962, 0.64209, 0.19373, 0.33453]],
+  "r3m161": [[0.16168, 0.0644, 0.16952, 0.07377], [0.35114, 0.0644, 0.16952, 0.07377], [0.62749, 0.0644, 0.16952, 0.07377], [0.81802, 0.0644, 0.16952, 0.07377]],
+  "r3m164": [[0.16168, 0.14988, 0.16952, 0.07377], [0.35114, 0.14988, 0.16952, 0.07377], [0.62749, 0.14988, 0.16952, 0.07377], [0.81802, 0.14988, 0.16952, 0.07377]],
+  "r3m157": [[0.16168, 0.23536, 0.16952, 0.07377], [0.35114, 0.23536, 0.16952, 0.07377], [0.62749, 0.23536, 0.16952, 0.07377], [0.81802, 0.23536, 0.16952, 0.07377]],
+  "r3m159": [[0.16168, 0.32084, 0.16952, 0.07377], [0.35114, 0.32084, 0.16952, 0.07377], [0.62749, 0.32084, 0.16952, 0.07377], [0.81802, 0.32084, 0.16952, 0.07377]],
+  "r3m163": [[0.16168, 0.40632, 0.16952, 0.07377], [0.35114, 0.40632, 0.16952, 0.07377], [0.62749, 0.40632, 0.16952, 0.07377], [0.81802, 0.40632, 0.16952, 0.07377]],
+  "r3m167": [[0.16168, 0.4918, 0.16952, 0.07377], [0.35114, 0.4918, 0.16952, 0.07377], [0.62749, 0.4918, 0.16952, 0.07377], [0.81802, 0.4918, 0.16952, 0.07377]],
+  "r3m162": [[0.16168, 0.57728, 0.16952, 0.07377], [0.35114, 0.57728, 0.16952, 0.07377], [0.62749, 0.57728, 0.16952, 0.07377], [0.81802, 0.57728, 0.16952, 0.07377]],
+  "r3m165": [[0.16168, 0.66276, 0.16952, 0.07377], [0.35114, 0.66276, 0.16952, 0.07377], [0.62749, 0.66276, 0.16952, 0.07377], [0.81802, 0.66276, 0.16952, 0.07377]],
+  "r3m166": [[0.16168, 0.74824, 0.16952, 0.07377], [0.35114, 0.74824, 0.16952, 0.07377], [0.62749, 0.74824, 0.16952, 0.07377], [0.81802, 0.74824, 0.16952, 0.07377]],
+  "r3m158": [[0.16168, 0.83372, 0.16952, 0.07377], [0.35114, 0.83372, 0.16952, 0.07377], [0.62749, 0.83372, 0.16952, 0.07377], [0.81802, 0.83372, 0.16952, 0.07377]],
+  "r3m160": [[0.16168, 0.9192, 0.16952, 0.07377], [0.35114, 0.9192, 0.16952, 0.07377], [0.62749, 0.9192, 0.16952, 0.07377], [0.81802, 0.9192, 0.16952, 0.07377]],
+  "r1m92": [[0.01959, 0.1326, 0.22934, 0.13304], [0.75036, 0.1326, 0.22934, 0.13304]],
+  "r1m93": [[0.01959, 0.29824, 0.22934, 0.13304], [0.75036, 0.29824, 0.22934, 0.13304]],
+  "r1m94": [[0.01959, 0.46388, 0.22934, 0.13304], [0.75036, 0.46388, 0.22934, 0.13304]],
+  "r1m95": [[0.01959, 0.69031, 0.22934, 0.13304], [0.75036, 0.69031, 0.22934, 0.13304]],
+  "r1m96": [[0.01959, 0.85595, 0.22934, 0.13304], [0.75036, 0.85595, 0.22934, 0.13304]],
+  "r4m92": [[0.25997, 0.06117, 0.23077, 0.08473], [0.25997, 0.16755, 0.23077, 0.08473]],
+  "r4m93": [[0.50926, 0.28457, 0.23077, 0.08473], [0.50926, 0.39096, 0.23077, 0.08473]],
+  "r4m84": [[0.01068, 0.53324, 0.23077, 0.08473]],
+  "r4m94": [[0.50926, 0.64191, 0.23077, 0.08473], [0.75855, 0.65312, 0.23077, 0.08473]],
+  "r4m95": [[0.25997, 0.79255, 0.23077, 0.08473], [0.50926, 0.79255, 0.23077, 0.08473]],
+  "r4m96": [[0.25997, 0.90957, 0.23077, 0.08473], [0.50926, 0.90957, 0.23077, 0.08473], [0.75855, 0.90957, 0.23077, 0.08473]]
 };
 
 // 画像の上に赤丸を描く。

diff --git a/data.js b/data.js
@@ -4980,12 +4980,12 @@ const QA_DATA = [
   "level": "標準"
  },
  {
-  "id": "r1m87",
+  "id": "r1m92",
   "subj": "理科",
   "u": "第1回.生物のつながり",
-  "q": "【森林の表】高木は、成長して8m以上になる木で、（②）があります。代表的な植物は（③）です。②③にあてはまる言葉を答えなさい（③は1つでよい）。",
+  "q": "【森林の表】森林の中の植物のうち、（①）は、陽樹・陰樹の両方があり、成長して8m以上になる木です。代表的な植物は（②）です。①②にあてはまる言葉を答えなさい（②は1つでよい）。",
   "note": "理科8・9P／演習問題集、4P、まとめ1(3)",
-  "a": "②陽樹と陰樹の両方　③マツ・スギ・カシ・シイ・ブナ・ミズナラ（どれか1つ）",
+  "a": "①高木　②マツ・スギ・カシ・シイ・ブナ・ミズナラ（どれか1つ）",
   "img": "r1_shinrin.jpg",
   "kai": 1,
   "kind": "memo",
@@ -4993,12 +4993,12 @@ const QA_DATA = [
   "level": "基礎"
  },
  {
-  "id": "r1m88",
+  "id": "r1m93",
   "subj": "理科",
   "u": "第1回.生物のつながり",
-  "q": "【森林の表】（④）は、成長しても高さ3mくらいで、幹がなく、根もとから枝分かれして、高木の下で育つ（⑤）です。代表的な植物は、ヤツデ・アオキ・アジサイです。④⑤にあてはまる言葉を答えなさい。",
+  "q": "【森林の表】森林の中の植物のうち、（③）は陰生植物で、成長しても高さ3mくらい。幹がなく、根もとから枝分かれして、高木の下で育ちます。代表的な植物は（④）です。③④にあてはまる言葉を答えなさい（④は1つでよい）。",
   "note": "理科8・9P／演習問題集、4P、まとめ1(3)",
-  "a": "④低木　⑤陰生植物",
+  "a": "③低木　④ヤツデ・アオキ・アジサイ（どれか1つ）",
   "img": "r1_shinrin.jpg",
   "kai": 1,
   "kind": "memo",
@@ -5006,12 +5006,12 @@ const QA_DATA = [
   "level": "基礎"
  },
  {
-  "id": "r1m89",
+  "id": "r1m94",
   "subj": "理科",
   "u": "第1回.生物のつながり",
-  "q": "【森林の表】下草は、森林内の水分を保つ（⑥）です。代表的な植物は（⑦）です。⑥⑦にあてはまる言葉を答えなさい（⑦は1つでよい）。",
+  "q": "【森林の表】森林の中の植物のうち、（⑤）は陰生植物で、森林内の水分を保ちます。代表的な植物は（⑥）です。⑤⑥にあてはまる言葉を答えなさい（⑥は1つでよい）。",
   "note": "理科8・9P／演習問題集、4P、まとめ1(3)",
-  "a": "⑥陰生植物　⑦コケ・シダ・ササ・ヤブラン（どれか1つ）",
+  "a": "⑤下草　⑥コケ・シダ・ササ・ヤブラン（どれか1つ）",
   "img": "r1_shinrin.jpg",
   "kai": 1,
   "kind": "memo",
@@ -5019,12 +5019,12 @@ const QA_DATA = [
   "level": "基礎"
  },
  {
-  "id": "r1m90",
+  "id": "r1m95",
   "subj": "理科",
   "u": "第1回.生物のつながり",
-  "q": "【森林の表】（⑨）は、おもにつる性の植物で、高木の上の方までつるをのばし、森林のへりを包みこむ（⑩）です。代表的な植物は、クズ・ヤブガラシ・フジ・ヤマブドウ・ツタです。⑨⑩にあてはまる言葉を答えなさい。",
+  "q": "【森林の表】森林のまわりの植物のうち、（⑦）は陽生植物で、おもにつる性の植物です。高木の上の方までつるをのばし、森林のへりを包みこみます。代表的な植物は（⑧）です。⑦⑧にあてはまる言葉を答えなさい（⑧は1つでよい）。",
   "note": "理科8・9P／演習問題集、4P、まとめ1(3)",
-  "a": "⑨マント群落　⑩陽生植物",
+  "a": "⑦マント群落　⑧クズ・ヤブガラシ・フジ・ヤマブドウ・ツタ（どれか1つ）",
   "img": "r1_shinrin.jpg",
   "kai": 1,
   "kind": "memo",
@@ -5032,38 +5032,12 @@ const QA_DATA = [
   "level": "基礎"
  },
  {
-  "id": "r1m91",
+  "id": "r1m96",
   "subj": "理科",
   "u": "第1回.生物のつながり",
-  "q": "【森林の表】そで群落は（⑪）で、森林の（⑫）に生える草です。代表的な植物は（⑬）です。⑪〜⑬にあてはまる言葉を答えなさい（⑬は1つでよい）。",
+  "q": "【森林の表】森林のまわりの植物のうち、（⑨）は陽生植物で、森林のまわりに生える草です。代表的な植物は（⑩）です。⑨⑩にあてはまる言葉を答えなさい（⑩は1つでよい）。",
   "note": "理科8・9P／演習問題集、4P、まとめ1(3)",
-  "a": "⑪陽生植物　⑫まわり　⑬ススキ・ヨモギ・イノコズチ（どれか1つ）",
-  "img": "r1_shinrin.jpg",
-  "kai": 1,
-  "kind": "memo",
-  "priority": "高",
-  "level": "基礎"
- },
- {
-  "id": "r1m79",
-  "subj": "理科",
-  "u": "第1回.生物のつながり",
-  "q": "【森林の表①】表の①にあてはまる言葉を答えなさい。",
-  "note": "理科8・9P／演習問題集、4P、まとめ1(3)",
-  "a": "中",
-  "img": "r1_shinrin.jpg",
-  "kai": 1,
-  "kind": "memo",
-  "priority": "高",
-  "level": "基礎"
- },
- {
-  "id": "r1m80",
-  "subj": "理科",
-  "u": "第1回.生物のつながり",
-  "q": "【森林の表⑧】表の⑧にあてはまる言葉を答えなさい。",
-  "note": "理科8・9P／演習問題集、4P、まとめ1(3)",
-  "a": "まわり",
+  "a": "⑨そで群落　⑩ススキ・ヨモギ・イノコズチ（どれか1つ）",
   "img": "r1_shinrin.jpg",
   "kai": 1,
   "kind": "memo",
